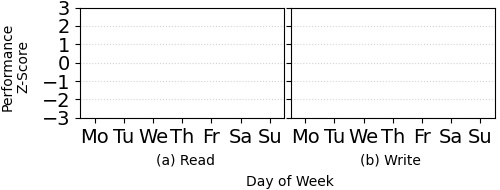
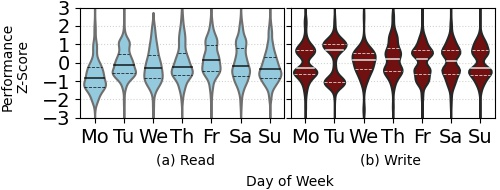
figures

Changed region(s): [[0.15, 0.0526, 0.99, 0.6316]]

diff --git a/example/simple_user.py b/example/simple_user.py
@@ -35,7 +35,7 @@ for app in top_apps:
         tmp.loc[:,'Performance Z-Score'] = stats.zscore(tmp['Performance'])
         tmp.loc[:,'Run Time Span'] = tmp.loc[:,'End Time']-tmp.loc[:,'Start Time']
         zscored_df = zscored_df.append(tmp,ignore_index=True)
-
+    '''
     df = zscored_df
     read_info = df[df['Operation']=='Read']['Performance Z-Score'].tolist()
     read_median = np.median(read_info)
@@ -154,7 +154,7 @@ for app in top_apps:
     plt.savefig(os.path.join(fig_path,'run-span_v_perf-var.jpg'))
     plt.clf()
     plt.close()
-
+    '''
     # collect: date, date by week, time of day, day of week (Monday, etc)
     df = zscored_df
 
@@ -248,7 +248,8 @@ for app in top_apps:
     write_df = df[df['Operation']=='Write']
     fig, axes = plt.subplots(1, 2, sharey=True, figsize=[5,1.9])
     fig.subplots_adjust(left=0.16, right=0.990, top=0.96, bottom=0.38, wspace=0.03)
-    order = ['Mo', 'Tu', 'We', 'Th', 'Fr', 'Sa', 'Su']
+    order = ['Monday', 'Tuesday', 'Wednesday', 'Thursday', 'Friday', 'Saturday', 'Sunday']
+    labels = ['Mo', 'Tu', 'We', 'Th', 'Fr', 'Sa', 'Su']
     sns.violinplot(ax=axes[0], x='Day of Week', y='Performance Z-Score', data=read_df, order=order, color='skyblue', inner='quartile', edgecolor='black')
     sns.violinplot(ax=axes[1], x='Day of Week', y='Performance Z-Score', data=write_df, order=order, color='maroon', inner='quartile')
     axes[0].set_ylabel('')
@@ -259,6 +260,8 @@ for app in top_apps:
     fig.text(0.001, 0.65, "Performance\nZ-Score", rotation=90, va='center', multialignment='center')
     axes[0].set_xlabel('')
     axes[1].set_xlabel('')
+    axes[0].set_xticklabels(labels)
+    axes[1].set_xticklabels(labels)
     axes[0].yaxis.grid(color='lightgrey', linestyle=':')
     axes[1].yaxis.grid(color='lightgrey', linestyle=':')
     axes[0].set_axisbelow(True)
